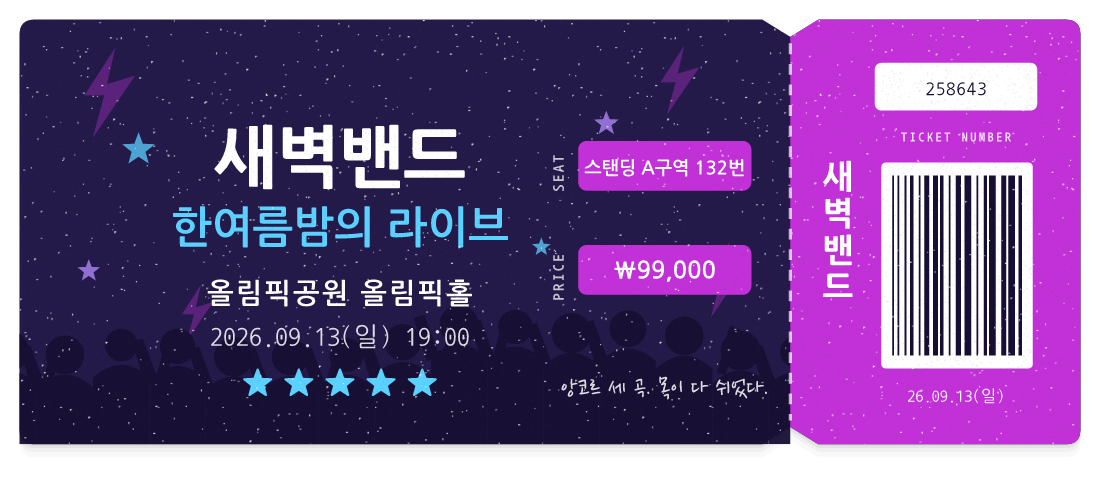
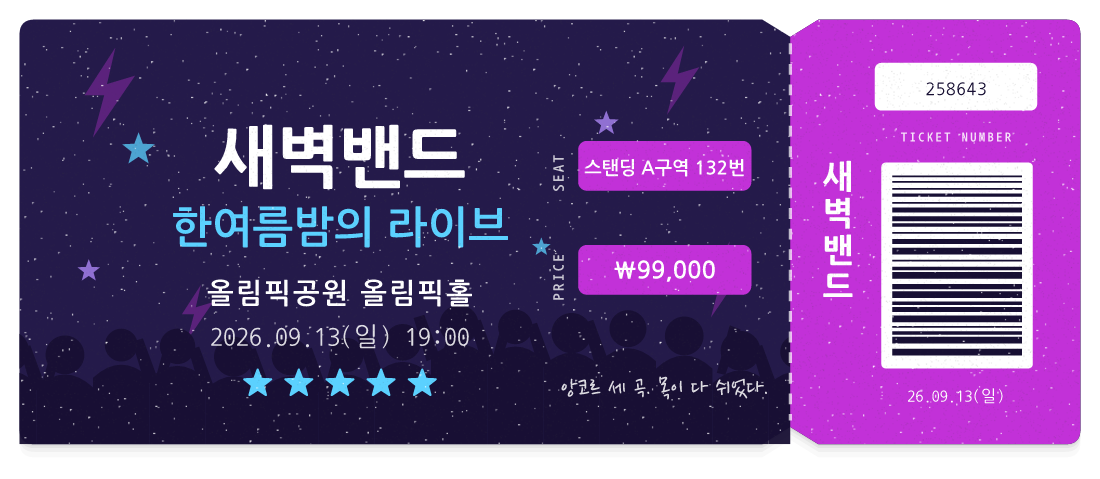
가로 티켓을 밤하늘 티켓으로 · 스텁 바코드를 세로로 · 미리보기 맨 앞은 흰 무지
- 콘서트 기본 모양 이름: 가로 티켓 → 밤하늘 티켓
- 밤하늘 티켓 스텁의 바코드를 90도 돌려 세로로 세움
- 콘서트·공연전시 모두 상점 미리보기와 모양 고르기에서 흰 무지가 맨 앞

Changed region(s): [[0.8036, 0.3507, 0.9273, 0.7599]]

diff --git a/app/src/lib/shop.ts b/app/src/lib/shop.ts
@@ -89,8 +89,8 @@ export interface ConcertDesignItem {
 
 /** 카테고리를 사면 바로 쓰는 기본 모양 (무료) */
 export const FREE_CONCERT_DESIGNS: { id: ConcertDesign; name: string }[] = [
-  { id: 'ticket', name: '가로 티켓' },
   { id: 'plain', name: '흰 무지' },
+  { id: 'ticket', name: '밤하늘 티켓' },
 ];
 
 export const CONCERT_DESIGNS: ConcertDesignItem[] = [
@@ -140,7 +140,7 @@ export const PAID_CATEGORIES: Partial<Record<RecordKind, { name: string; desc: s
   gift: { name: '선물', desc: '받은·보낸 선물을 모바일 교환권처럼', icon: '🎁', productId: 'recoco.category.gift', price: 1500 },
   food: { name: '카페·맛집', desc: '메뉴마다 별점을 매기는 주문서 · 인쇄 색 4가지', icon: '☕', productId: 'recoco.category.food', price: 1500 },
   show: { name: '공연·전시', desc: '뮤지컬·연극·전시 · 흰 무지 티켓 · 포스터 입장권', icon: '🎫', productId: 'recoco.category.show', price: 1500 },
-  concert: { name: '콘서트', desc: '가로 공연 티켓 · 흰 무지 티켓', icon: '🎤', productId: 'recoco.category.concert', price: 1500 },
+  concert: { name: '콘서트', desc: '밤하늘 티켓 · 흰 무지 티켓', icon: '🎤', productId: 'recoco.category.concert', price: 1500 },
 };
 
 export const categoryUnlocked = (kind: RecordKind, owned: string[]) => {

diff --git a/app/src/templates/ConcertTicket.tsx b/app/src/templates/ConcertTicket.tsx
@@ -168,7 +168,10 @@ export function ConcertTicket({ record: r, width, connected = false }: { record:
         <T f="mono" x={MAIN_W + 153} y={69} fontSize={17} textAnchor="middle" fill={CONCERT_DEEP} letterSpacing={1} children={serial.slice(0, 6)} />
         <T f="monoBold" x={MAIN_W + 153} y={112} fontSize={12} letterSpacing={2} textAnchor="middle" fill="#fff" opacity={0.85} children="TICKET NUMBER" />
         <Rect x={MAIN_W + 84} y={132} width={140} height={190} rx={4} fill="#fff" />
-        <Barcode seed={`${r.id}-stub`} x={MAIN_W + 94} y={144} width={120} height={166} color={CONCERT_DEEP} />
+        {/* 실제 티켓 스텁처럼 바코드를 세로로 세운다 (흰 판 가운데에서 90도) */}
+        <G transform={`rotate(90 ${MAIN_W + 154} 227)`}>
+          <Barcode seed={`${r.id}-stub`} x={MAIN_W + 71} y={167} width={166} height={120} color={CONCERT_DEEP} />
+        </G>
         <T f="mono" x={MAIN_W + 153} y={352} fontSize={15} textAnchor="middle" fill="#fff" children={dotDateWithDay(r.date).slice(2)} />
 
         <PaperOverlay id={id} d={shape} width={PW} height={PH} wrinkle="none" surface="grain" />

diff --git a/app/src/types.ts b/app/src/types.ts
@@ -208,7 +208,7 @@ export interface ShowRecord extends BaseRecord {
   color?: TicketColor; // 모양의 색 (팔찌·포토 티켓·홀로그램)
 }
 
-/** ticket: 가로 공연 티켓, plain: 흰 무지 티켓 (여기까지 무료) / retro: 레트로 티켓, band: 스탠딩 팔찌, kpop: 포토 티켓 (전부 공연·전시와 같이 씀) */
+/** ticket: 밤하늘 티켓(가로), plain: 흰 무지 티켓 (여기까지 무료) / retro: 레트로 티켓, band: 스탠딩 팔찌, kpop: 포토 티켓 (전부 공연·전시와 같이 씀) */
 export type ConcertDesign = 'ticket' | 'plain' | 'retro' | 'band' | 'kpop';
 
 /** 스탠딩 팔찌 끈 색 */

diff --git a/app/src/lib/products.ts b/app/src/lib/products.ts
@@ -216,8 +216,8 @@ export function categoryProduct(kind: RecordKind): PreviewProduct | null {
             ]
           : kind === 'concert'
             ? [
-                { record: sampleConcert(), caption: '가로 티켓' },
                 { record: { ...sampleConcert(), id: 'preview-concert-plain', design: 'plain' }, caption: '흰 무지' },
+                { record: sampleConcert(), caption: '밤하늘 티켓' },
               ]
             : [];
   return { title: c.name, desc: c.desc, productId: c.productId, price: c.price, tags: [], samples };

diff --git a/docs/유료화_아이디어.md b/docs/유료화_아이디어.md
@@ -10,7 +10,7 @@
 
 - 기본 5가지 기록(독서·영화·소비·여행·인생네컷), 개수 무제한
 - 기본 양식 · 기본 프레임 · QR 가져오기 · 기기 저장 · 이미지로 저장
-- 산 카테고리의 기본 영수증 모양 (카페·맛집 주문서 4색, 공연 흰 무지/포스터 입장권, 콘서트 가로 티켓/흰 무지)
+- 산 카테고리의 기본 영수증 모양 (카페·맛집 주문서 4색, 공연 흰 무지/포스터 입장권, 콘서트 흰 무지/밤하늘 티켓)
 - 소비·인생네컷의 기본 종이와 **흰 무지**
 - 기록 보상 옷: 리본(3장) · 하트 꼬랑지(10장) · 밀짚모자(30장)
 
@@ -27,7 +27,8 @@
 - 종이 테마는 하나 사면 소비 영수증과 인생네컷 뒷면 양쪽에 쓴다
 - 포토 티켓 · 스탠딩 팔찌 · **레트로 티켓**은 콘서트·공연전시 두 카테고리가 같이 쓴다 (한 번만 사면 됨)
 - **레트로 티켓**(크림 종이 + 남색 조각)은 2026-09-19 에 무료에서 유료로 옮겼다. 콘서트의 '레트로 티켓'과 공연·전시의 '입장권'이 같은 모양이라 한 상품으로 묶었다
-- **흰 무지 티켓**(`PlainTicket.tsx`)을 새로 그려 콘서트·공연전시의 무료 기본으로 넣었다. 예전 `design: 'ticket'`(공연)은 레트로의 옛 이름으로 그대로 읽는다
+- **흰 무지 티켓**(`PlainTicket.tsx`)을 새로 그려 콘서트·공연전시의 무료 기본으로 넣었다. 콘서트는 가로, 공연·전시는 세로이고 둘 다 바코드가 들어간다. 예전 `design: 'ticket'`(공연)은 레트로의 옛 이름으로 그대로 읽는다
+- 콘서트의 '가로 티켓'은 **밤하늘 티켓**으로 이름을 바꿨다 (2026-09-19). 상점·고르기·미리보기 모두 흰 무지를 맨 앞에 둔다
 
 ### 색 고르기 (2026-09-19)
 
